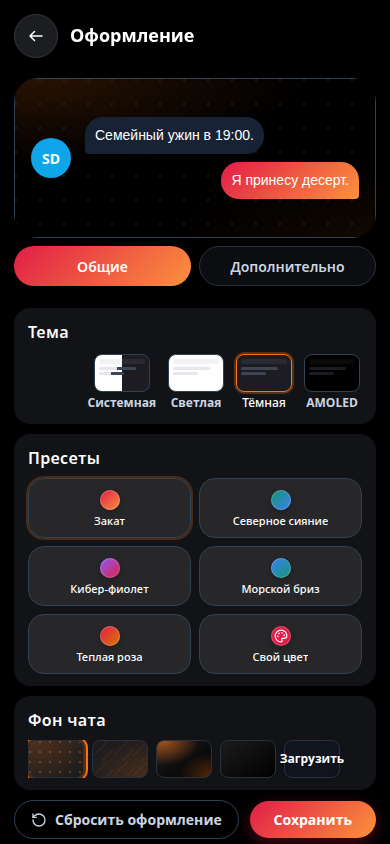
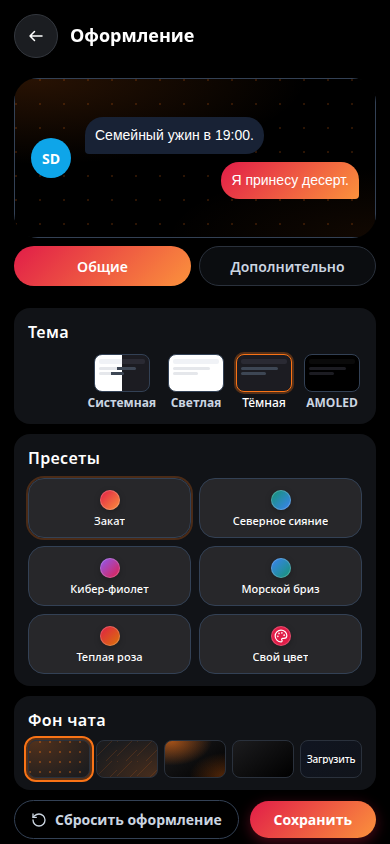
[Fix] layout mobile wallpaper controls in unclipped 5-column grid

Changed region(s): [[0.0615, 0.8626, 0.3385, 0.9242], [0.3692, 0.8626, 0.6154, 0.9242], [0.7077, 0.8934, 0.9231, 0.9242]]

diff --git a/e2e/visual/appearance-mobile.spec.ts b/e2e/visual/appearance-mobile.spec.ts
@@ -63,12 +63,45 @@ test("renders appearance menu presets in equal-sized grid and title on top witho
   const wallpaperGrid = page.locator(".appearance-wallpaper-grid");
   const wallpaperCard = page.locator(".appearance-section-card").filter({ has: wallpaperGrid });
   const wallpaperLabel = wallpaperCard.locator(".appearance-section-label");
-  const firstTile = wallpaperGrid.locator(".appearance-wallpaper-tile").first();
+  const wallpaperTiles = wallpaperGrid.locator(".appearance-wallpaper-tile");
+  const firstTile = wallpaperTiles.first();
   const wallpaperLabelBox = await wallpaperLabel.boundingBox();
   const firstTileBox = await firstTile.boundingBox();
   expect(wallpaperLabelBox).not.toBeNull();
   expect(firstTileBox).not.toBeNull();
   expect(wallpaperLabelBox!.y + wallpaperLabelBox!.height).toBeLessThanOrEqual(firstTileBox!.y);
+
+  // Wallpaper grid must fit in width without horizontal overflow
+  const gridMetrics = await wallpaperGrid.evaluate((el) => ({
+    clientWidth: el.clientWidth,
+    scrollWidth: el.scrollWidth,
+    overflowX: window.getComputedStyle(el).overflowX,
+    overflowY: window.getComputedStyle(el).overflowY
+  }));
+  expect(gridMetrics.scrollWidth).toBeLessThanOrEqual(gridMetrics.clientWidth);
+  expect(gridMetrics.overflowX).toBe("visible");
+  expect(gridMetrics.overflowY).toBe("visible");
+
+  // All 5 wallpaper tiles must be visible and fit within the grid
+  expect(await wallpaperTiles.count()).toBe(5);
+  const cardBox = await wallpaperCard.boundingBox();
+  expect(cardBox).not.toBeNull();
+  for (let i = 0; i < 5; i++) {
+    const tileBox = await wallpaperTiles.nth(i).boundingBox();
+    expect(tileBox).not.toBeNull();
+    expect(tileBox!.x).toBeGreaterThanOrEqual(cardBox!.x);
+    expect(tileBox!.x + tileBox!.width).toBeLessThanOrEqual(cardBox!.x + cardBox!.width);
+  }
+
+  // Custom tile label ("Загрузить") must fit inside the 5th tile bounds
+  const customSpan = wallpaperTiles.nth(4).locator("span");
+  if (await customSpan.isVisible()) {
+    const spanBox = await customSpan.boundingBox();
+    const lastTileBox = await wallpaperTiles.nth(4).boundingBox();
+    expect(spanBox).not.toBeNull();
+    expect(lastTileBox).not.toBeNull();
+    expect(spanBox!.width).toBeLessThanOrEqual(lastTileBox!.width);
+  }
 
   // Capture after screenshot
   const screenshot = testInfo.outputPath("01-mobile-appearance-presets-after.png");

diff --git a/frontend/src/styles/appearance-editor.css b/frontend/src/styles/appearance-editor.css
@@ -796,7 +796,8 @@
   .settings-page.settings-appearance-view .appearance-presets-grid { display: grid !important; gap: 8px !important; grid-template-columns: repeat(2, minmax(0, 1fr)) !important; justify-content: stretch !important; width: 100% !important; }
   .settings-page.settings-appearance-view .appearance-presets-grid > .color-picker { display: flex; height: 100%; width: 100%; }
   .settings-page.settings-appearance-view .appearance-preset-card { box-sizing: border-box !important; min-height: 60px !important; width: 100% !important; }
-  .settings-page.settings-appearance-view .appearance-wallpaper-grid { justify-content: flex-start !important; overflow-x: auto !important; scrollbar-width: none !important; width: 100% !important; }
-  .settings-page.settings-appearance-view .appearance-wallpaper-grid::-webkit-scrollbar { display: none; }
+  .settings-page.settings-appearance-view .appearance-wallpaper-grid { box-sizing: border-box !important; display: grid !important; gap: 6px !important; grid-template-columns: repeat(5, minmax(0, 1fr)) !important; justify-content: stretch !important; margin: -4px 0 !important; overflow: visible !important; padding: 4px 0 !important; width: 100% !important; }
+  .settings-page.settings-appearance-view .appearance-wallpaper-tile { box-sizing: border-box !important; flex: unset !important; height: 38px !important; min-width: 0 !important; width: 100% !important; }
+  .settings-page.settings-appearance-view .appearance-wallpaper-tile span { display: block !important; font-size: 10px !important; font-weight: 500 !important; letter-spacing: -0.02em !important; line-height: 1 !important; max-width: 100% !important; overflow: hidden !important; padding: 0 1px !important; text-align: center !important; text-overflow: ellipsis !important; white-space: nowrap !important; }
 }
 .settings-page.settings-appearance-view .appearance-section-card.appearance-section-card--inline > .appearance-wallpaper-upload-row, .settings-page.settings-appearance-view .appearance-section-card.appearance-section-card--inline > .error-text { grid-column: 1 / -1; }

diff --git a/frontend/src/pages/settings/AppearanceMobileLayout.test.ts b/frontend/src/pages/settings/AppearanceMobileLayout.test.ts
@@ -30,12 +30,21 @@ describe("Appearance mobile layout", () => {
     );
   });
 
-  it("aligns wallpaper thumbnails to the start on mobile to prevent overlapping titles", () => {
+  it("arranges wallpaper thumbnails in a 5-column grid with visible overflow and unclipped active borders on mobile", () => {
     const mobileBlockMatch = styles.match(/@media\s*\([^)]*max-width:\s*720px[^)]*\)\s*\{([\s\S]*?)(?=@media|$)/g);
     const combinedMobileBlocks = mobileBlockMatch?.join("\n") ?? "";
 
     expect(combinedMobileBlocks).toMatch(
-      /\.settings-page\.settings-appearance-view\s+\.appearance-wallpaper-grid\s*\{[^}]*justify-content:\s*flex-start/
+      /\.settings-page\.settings-appearance-view\s+\.appearance-wallpaper-grid\s*\{[^}]*display:\s*grid/
+    );
+    expect(combinedMobileBlocks).toMatch(
+      /\.settings-page\.settings-appearance-view\s+\.appearance-wallpaper-grid\s*\{[^}]*grid-template-columns:\s*repeat\(5,\s*minmax\(0,\s*1fr\)\)/
+    );
+    expect(combinedMobileBlocks).toMatch(
+      /\.settings-page\.settings-appearance-view\s+\.appearance-wallpaper-grid\s*\{[^}]*overflow:\s*visible/
+    );
+    expect(combinedMobileBlocks).toMatch(
+      /\.settings-page\.settings-appearance-view\s+\.appearance-wallpaper-tile\s*\{[^}]*width:\s*100%/
     );
   });
 });
